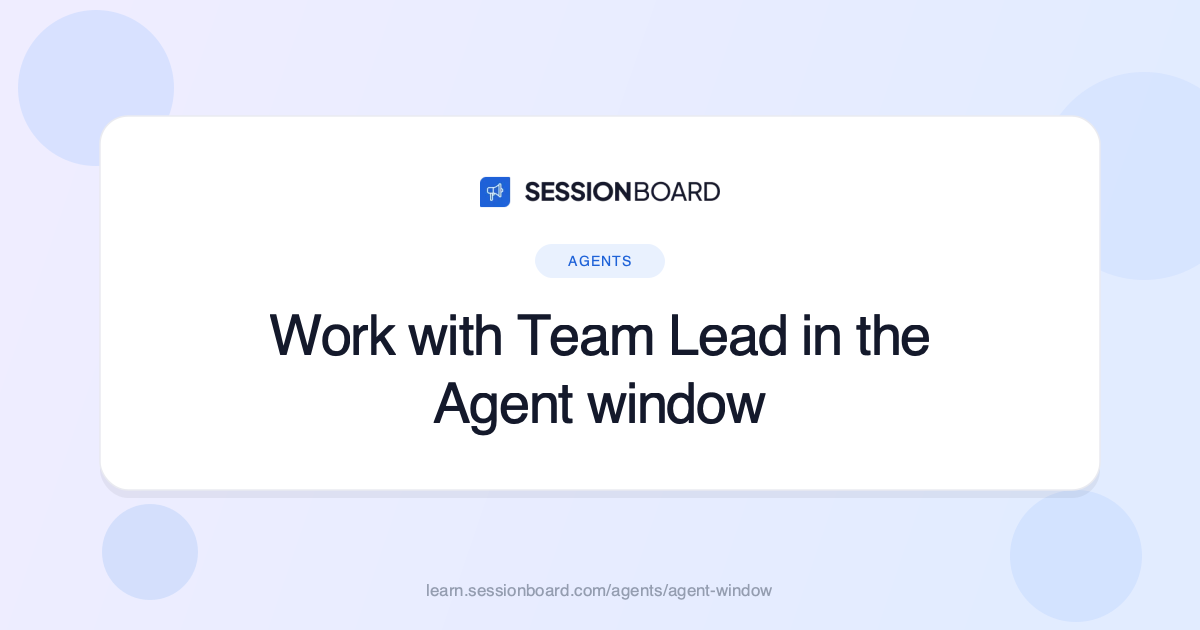
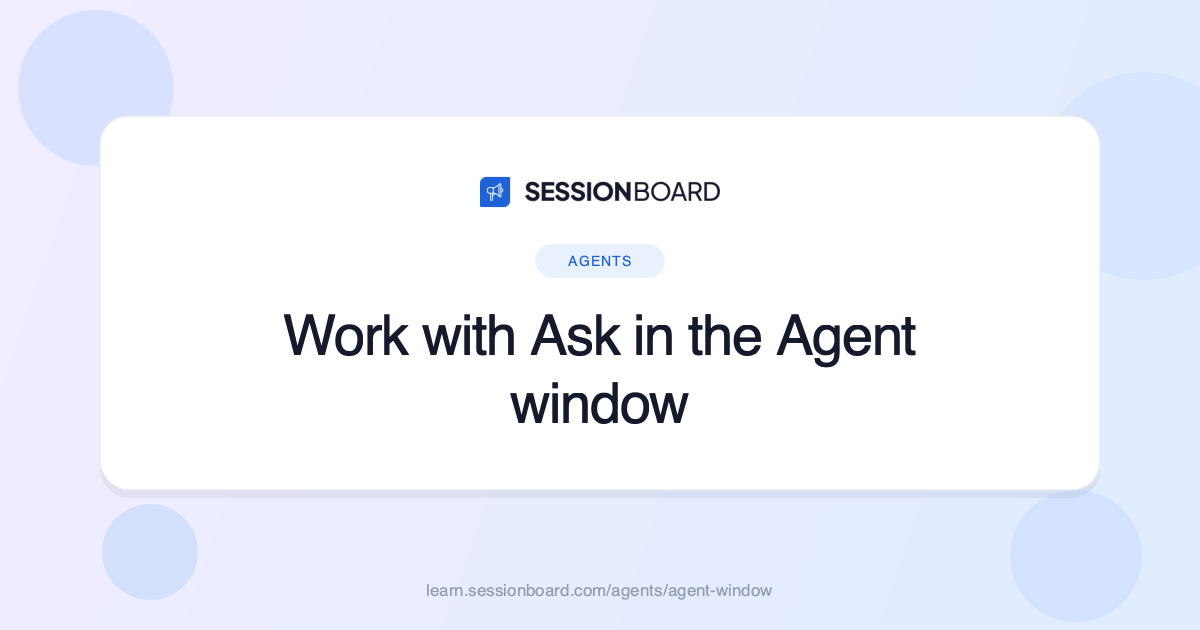
chore: retire the name Team Lead in favor of Ask (nomenclature decision F)
Glossary gets Ask and Agent window entries; STYLE.md terminology row and
Vale Terms.yml flag "Team Lead" (case-sensitive, so the reviewer
session-build "team lead" role is untouched) and point copilot at Ask.
The page guide, Agent window and registration setup articles describe
what happens or say Ask. Slugs (/agents/team-lead, /registration/team-lead)
keep their paths; training-video transcripts and live release notes are
left as recorded.

Changed region(s): [[0.2158, 0.4825, 0.7708, 0.6032], [0.3392, 0.6032, 0.6475, 0.6937]]

diff --git a/STYLE.md b/STYLE.md
@@ -37,7 +37,7 @@ docs automatically. Automated PRs that don't follow this guide don't merge.
 | Early Access | Labs; "Preview" only for the self-serve stage or when quoting the sidebar row |
 | Organization | account, workspace (for the customer's tenant; "account" is a CRM company) |
 | Field Events | gatherings |
-| Team Lead | Ask, assistant, copilot, AI Mode (the admin agent) |
+| Ask (the admin agent's entry point; otherwise describe the outcome: "Drafted for you", "Changes made for you") | Team Lead (retired 2026-10-31), assistant, copilot, AI Mode. The full-screen surface stays **Agent window**; the attendee app's row is also **Ask**, so qualify ("attendee Ask") when both appear |
 
 The full table, with the reasoning and the terms for people, surfaces, awards and agents, is `sessionboard-tam/docs/product/nomenclature.md`. Change it there first.
 
